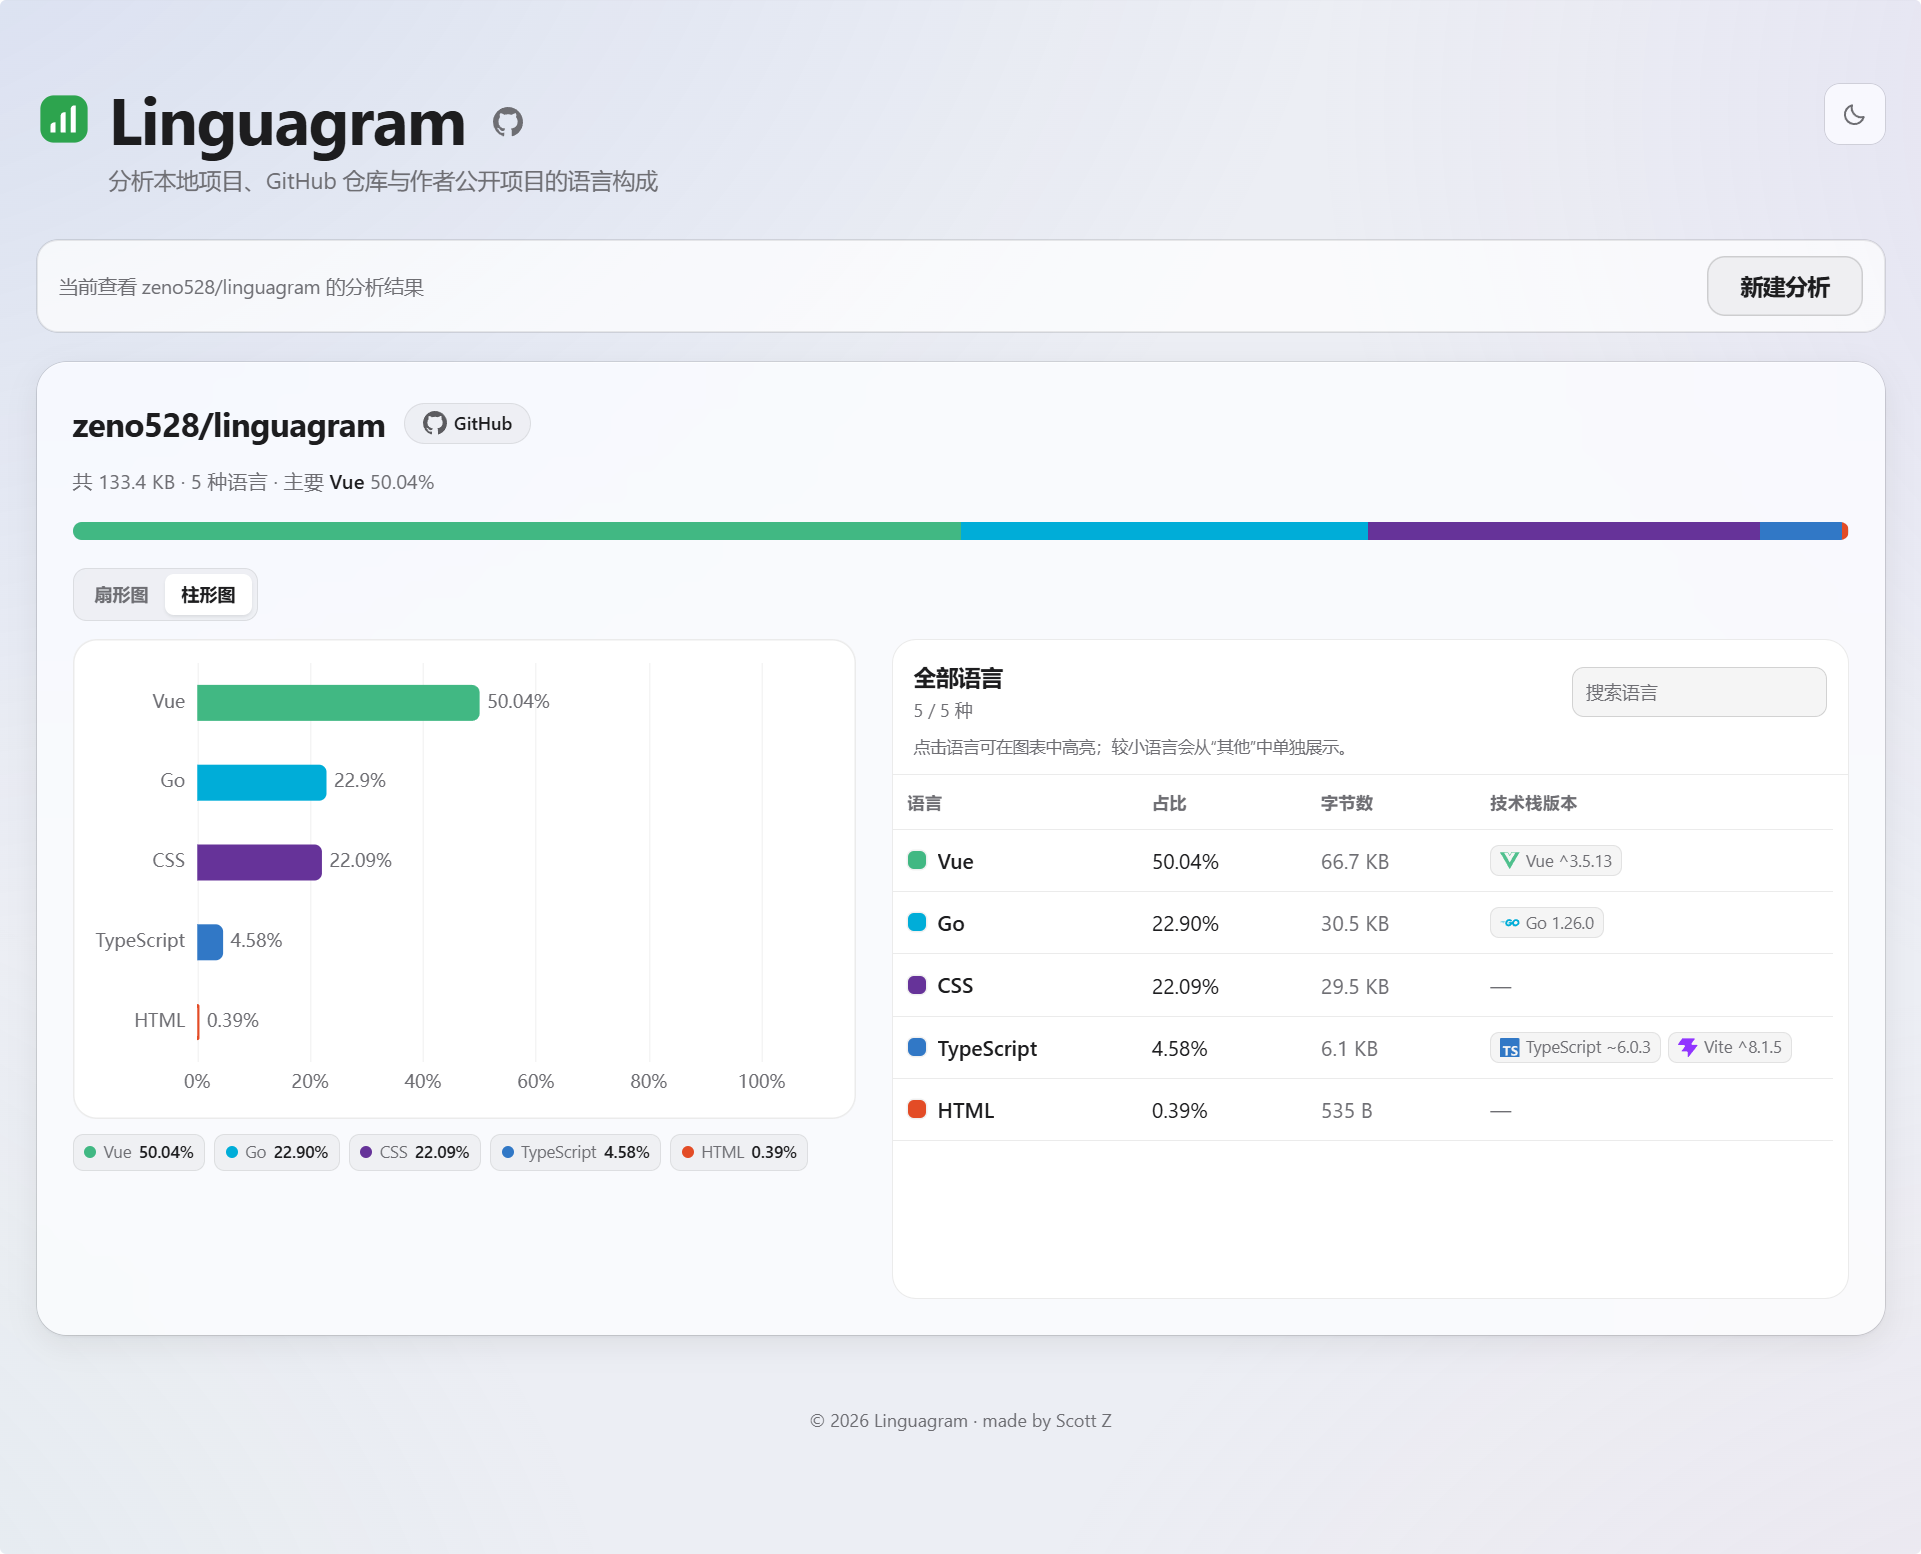
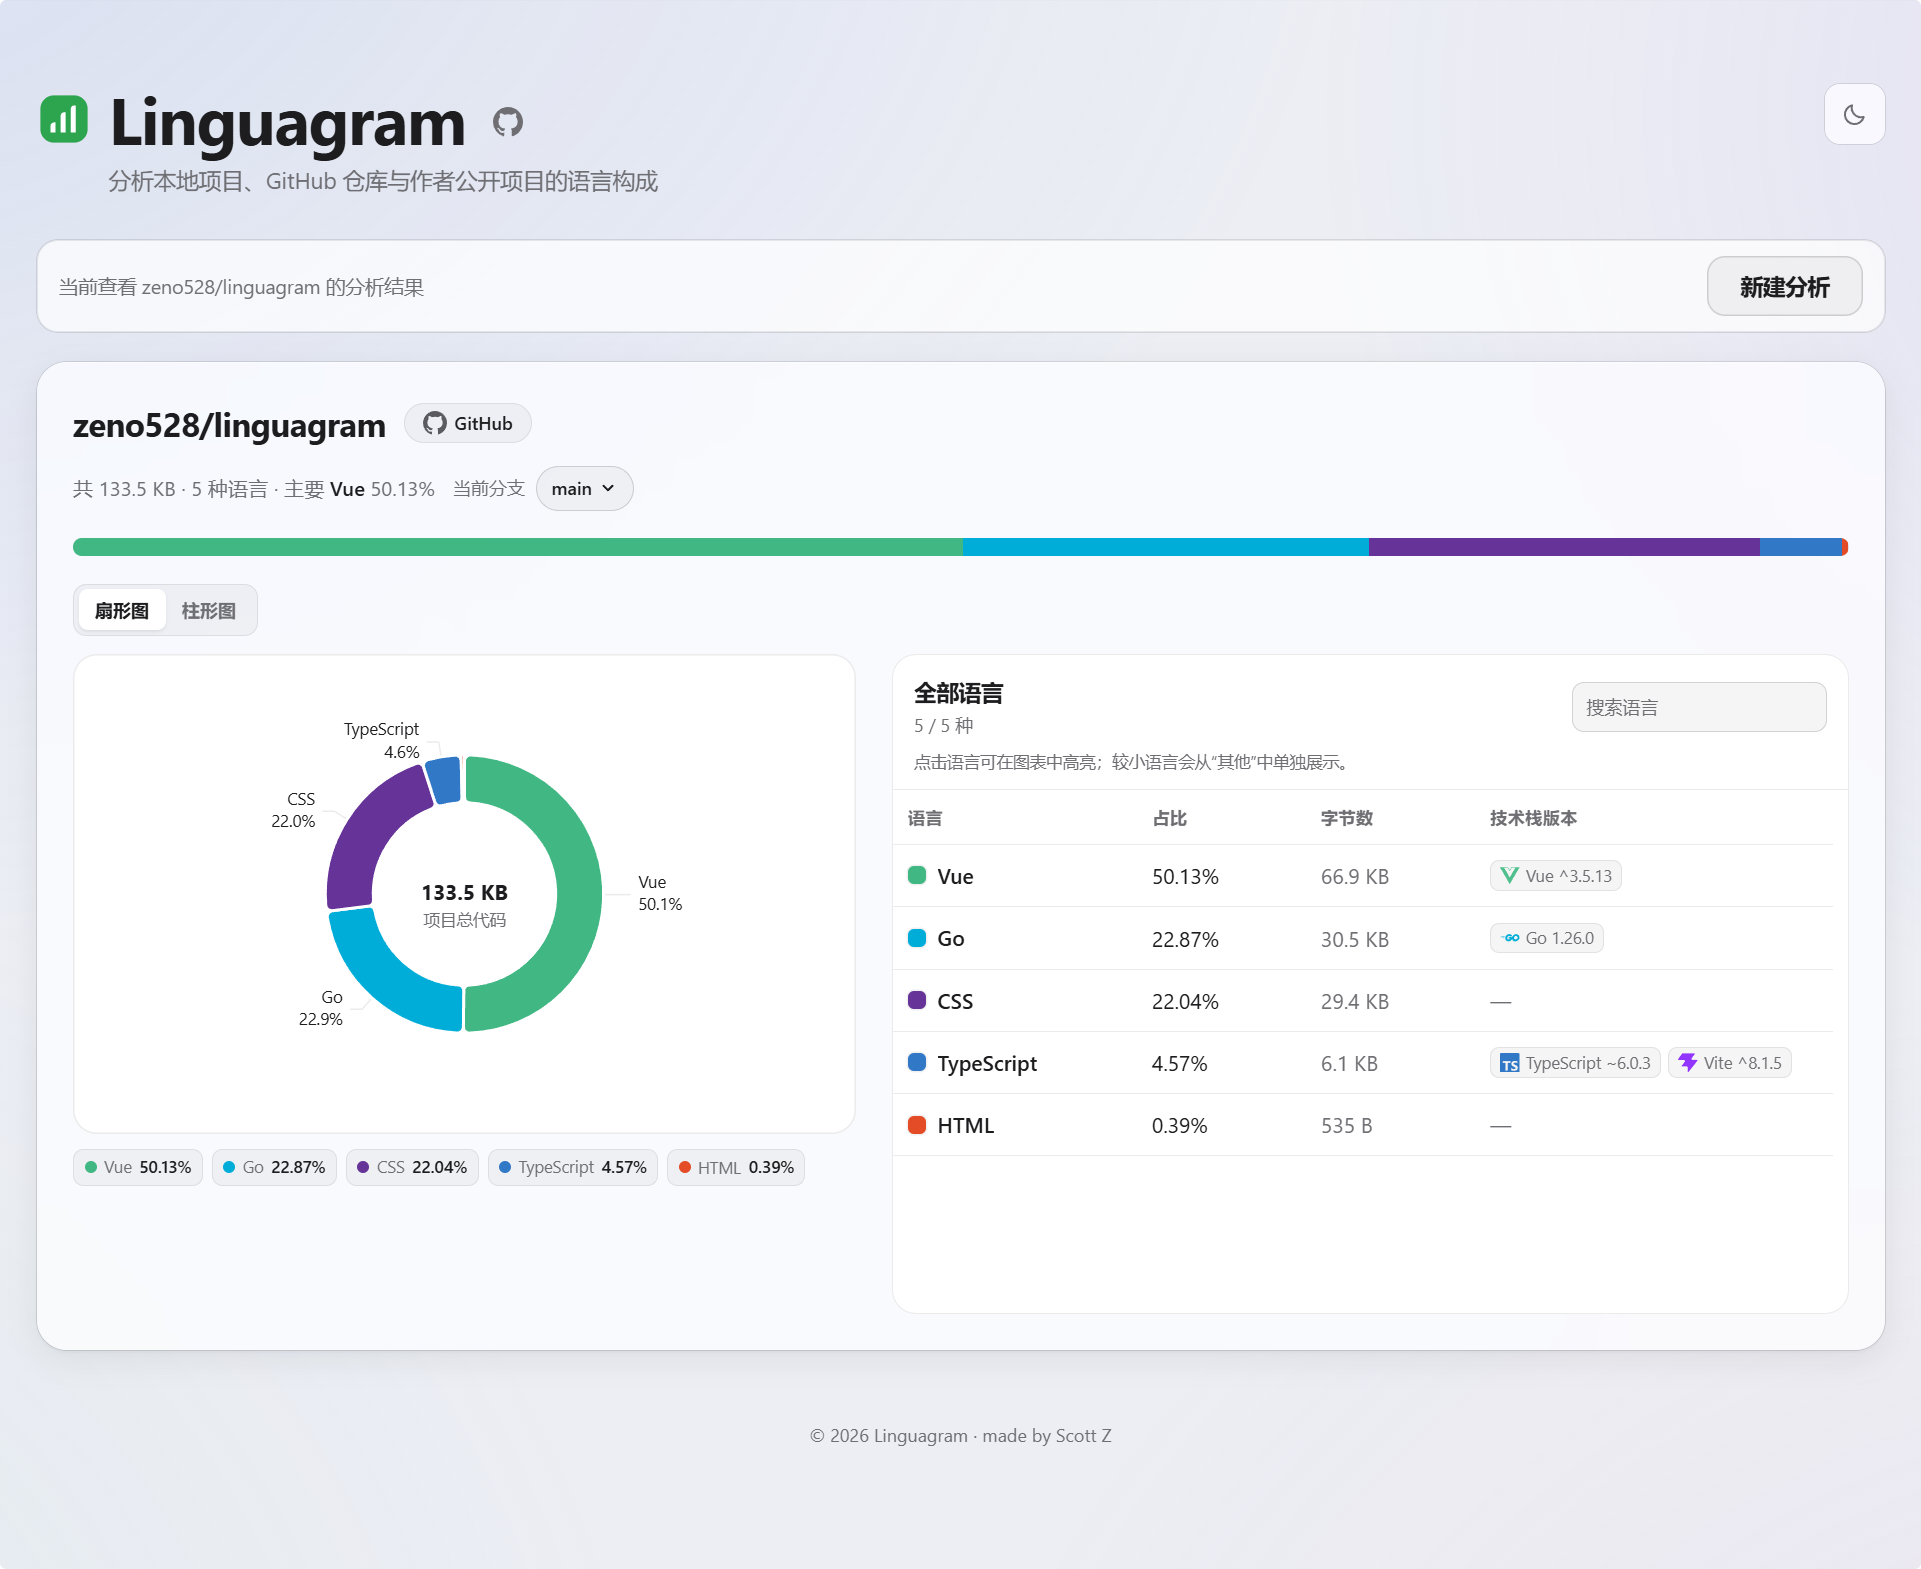
🔧 chore(docs): 更新预览图片
- 更新暗色与亮色两种预览图片。

🐛 fix(frontend): 调整扫描卡片最小高度以适配小屏

- 将 `.scan-card` 的 `min-height` 由 370px 改为 334px，改善响应式布局显示。

diff --git a/frontend/src/style.css b/frontend/src/style.css
@@ -232,7 +232,7 @@ header p {
 .scan-card {
   display: flex;
   flex-direction: column;
-  min-height: 370px;
+  min-height: 334px;
 }
 /* ---------------- dropzone ---------------- */
 .import-mode-switch {
@@ -807,7 +807,7 @@ header p {
   .language-panel { min-height: 420px; max-height: 420px; }
 
   .import-mode-switch { margin-bottom: 14px; }
-  .scan-card { min-height: 368px; }
+  .scan-card { min-height: 334px; }
   .import-mode-button { min-height: 44px; padding-inline: 8px; font-size: 12px; }
   .dropzone { padding: 24px 14px; }
   .gh-input { margin-top: 0; }
